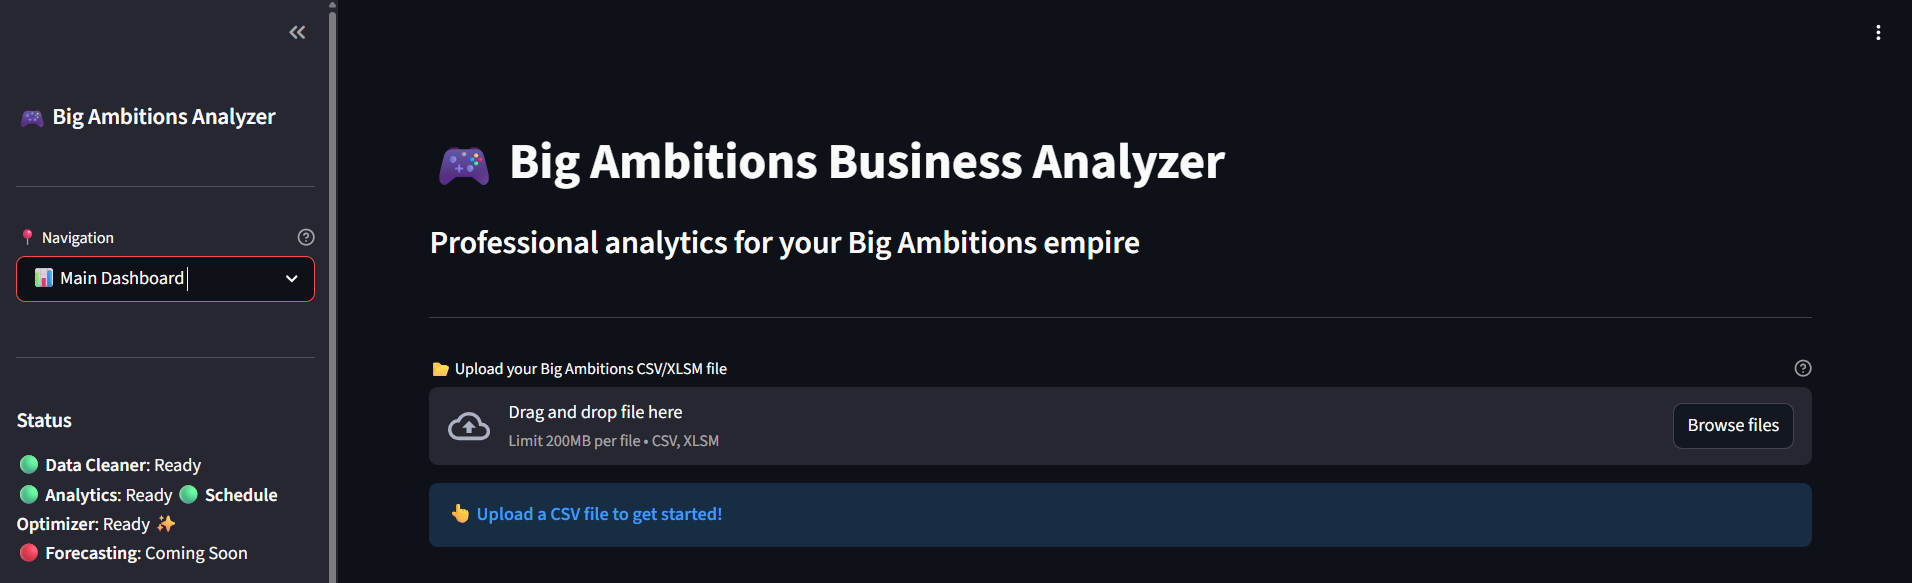
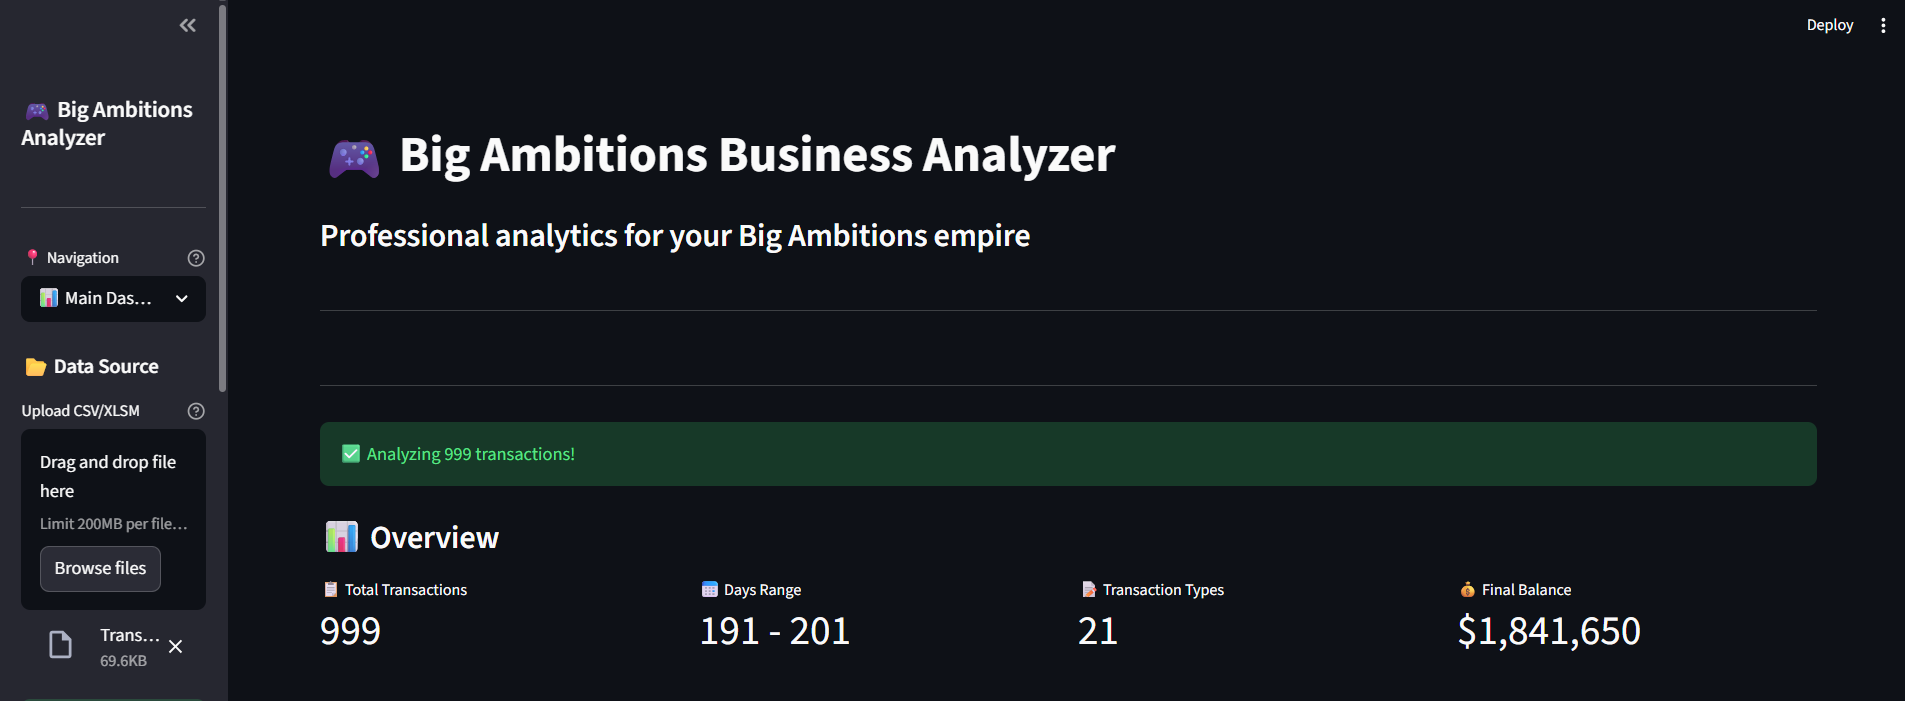
update version test and screenshoots

diff --git a/app.py b/app.py
@@ -104,7 +104,7 @@ with st.sidebar:
     business data with professional insights.
     
     **Version:** 2.0.0  
-    **Updated:** February 2026
+    **Updated:** March 2026
     """)
     
 
